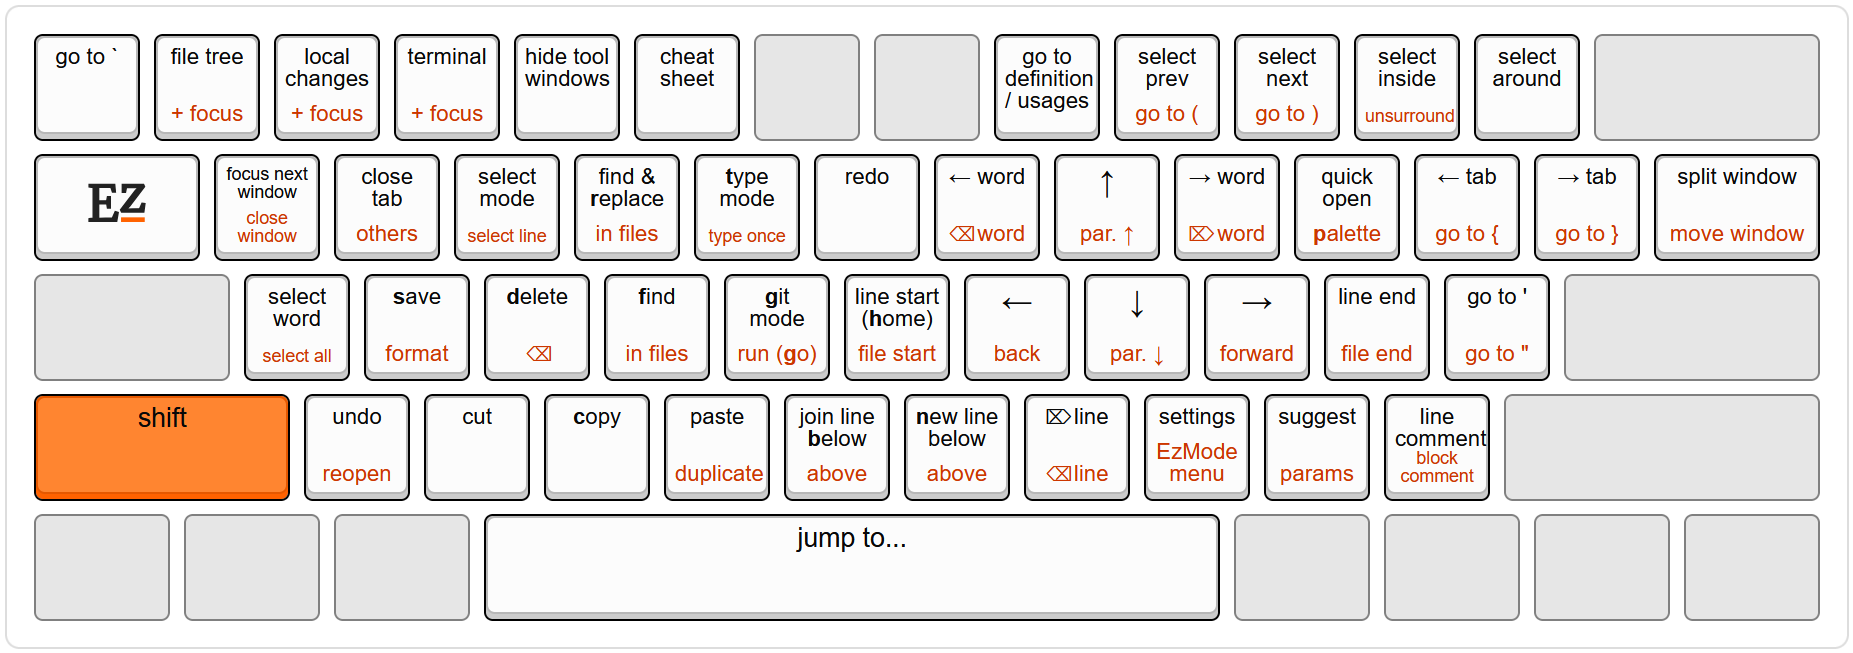
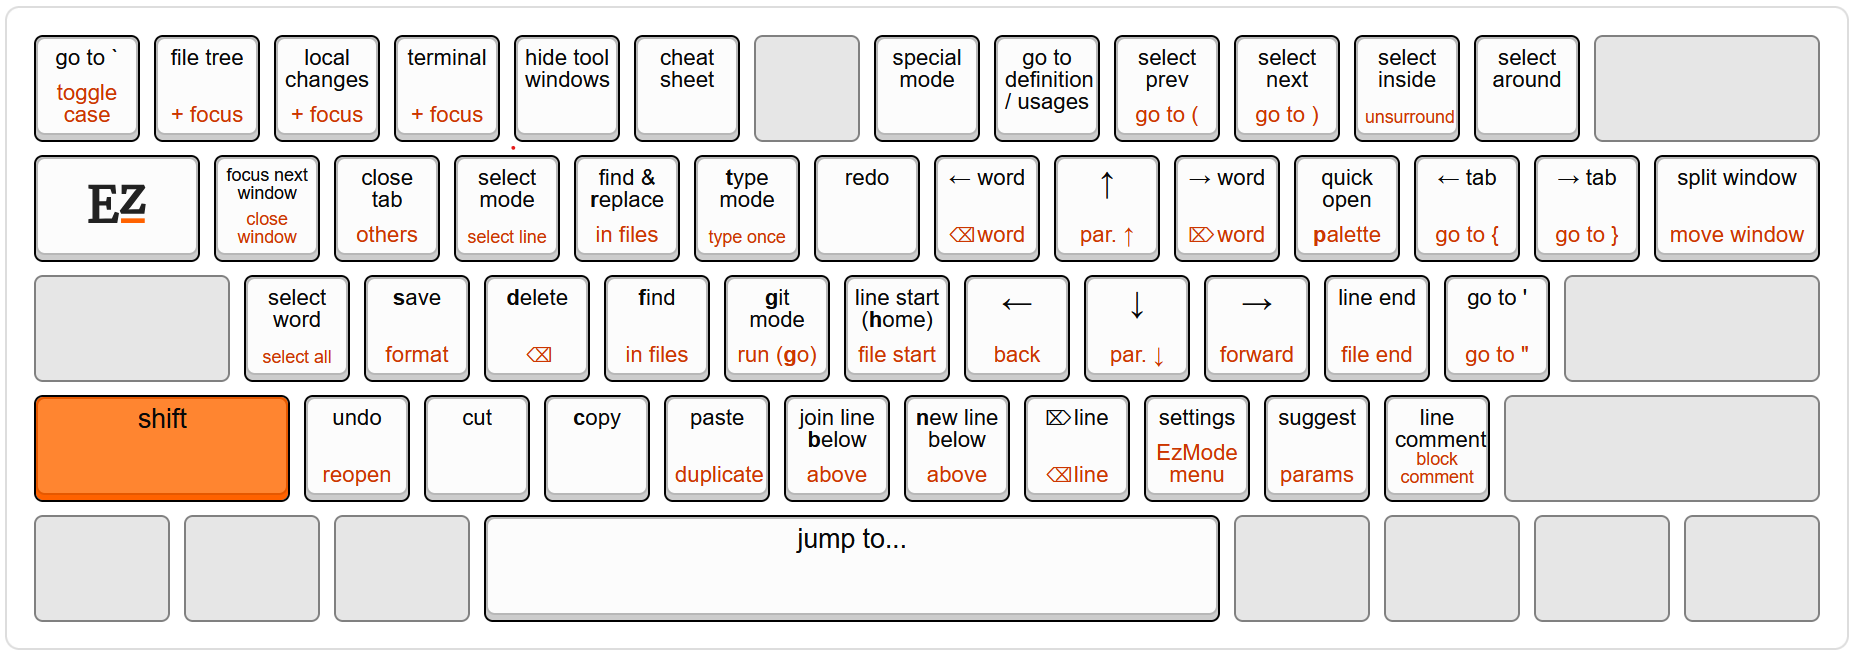
version 1.2.0

Changed region(s): [[0.0, 0.0, 1.0, 1.0]]

diff --git a/CHANGELOG.md b/CHANGELOG.md
@@ -4,6 +4,17 @@
 
 ## [Unreleased]
 
+## 1.2.0
+- Git review action: when already reviewing, exit to source
+- Add `special` mode
+- Tab key: move ExpandLiveTemplateByTab to Alt-t
+- Support changing mode anywhere in an action string
+- Fix issue when using AceJump in select mode
+- Add toggle case action to `~` key
+- Add keystroke history view to cheat sheet
+- Cheat sheet: print default key and space key again
+- Jump to paired delimiter: fix delimiter counting when the caret is next to an opposite delim
+
 ## 1.1.0
 - Restore IDE Tab shortcuts when unloading the plugin.
 - Git mode improvements: add "review" action, and exit git mode when pressing `w`.
